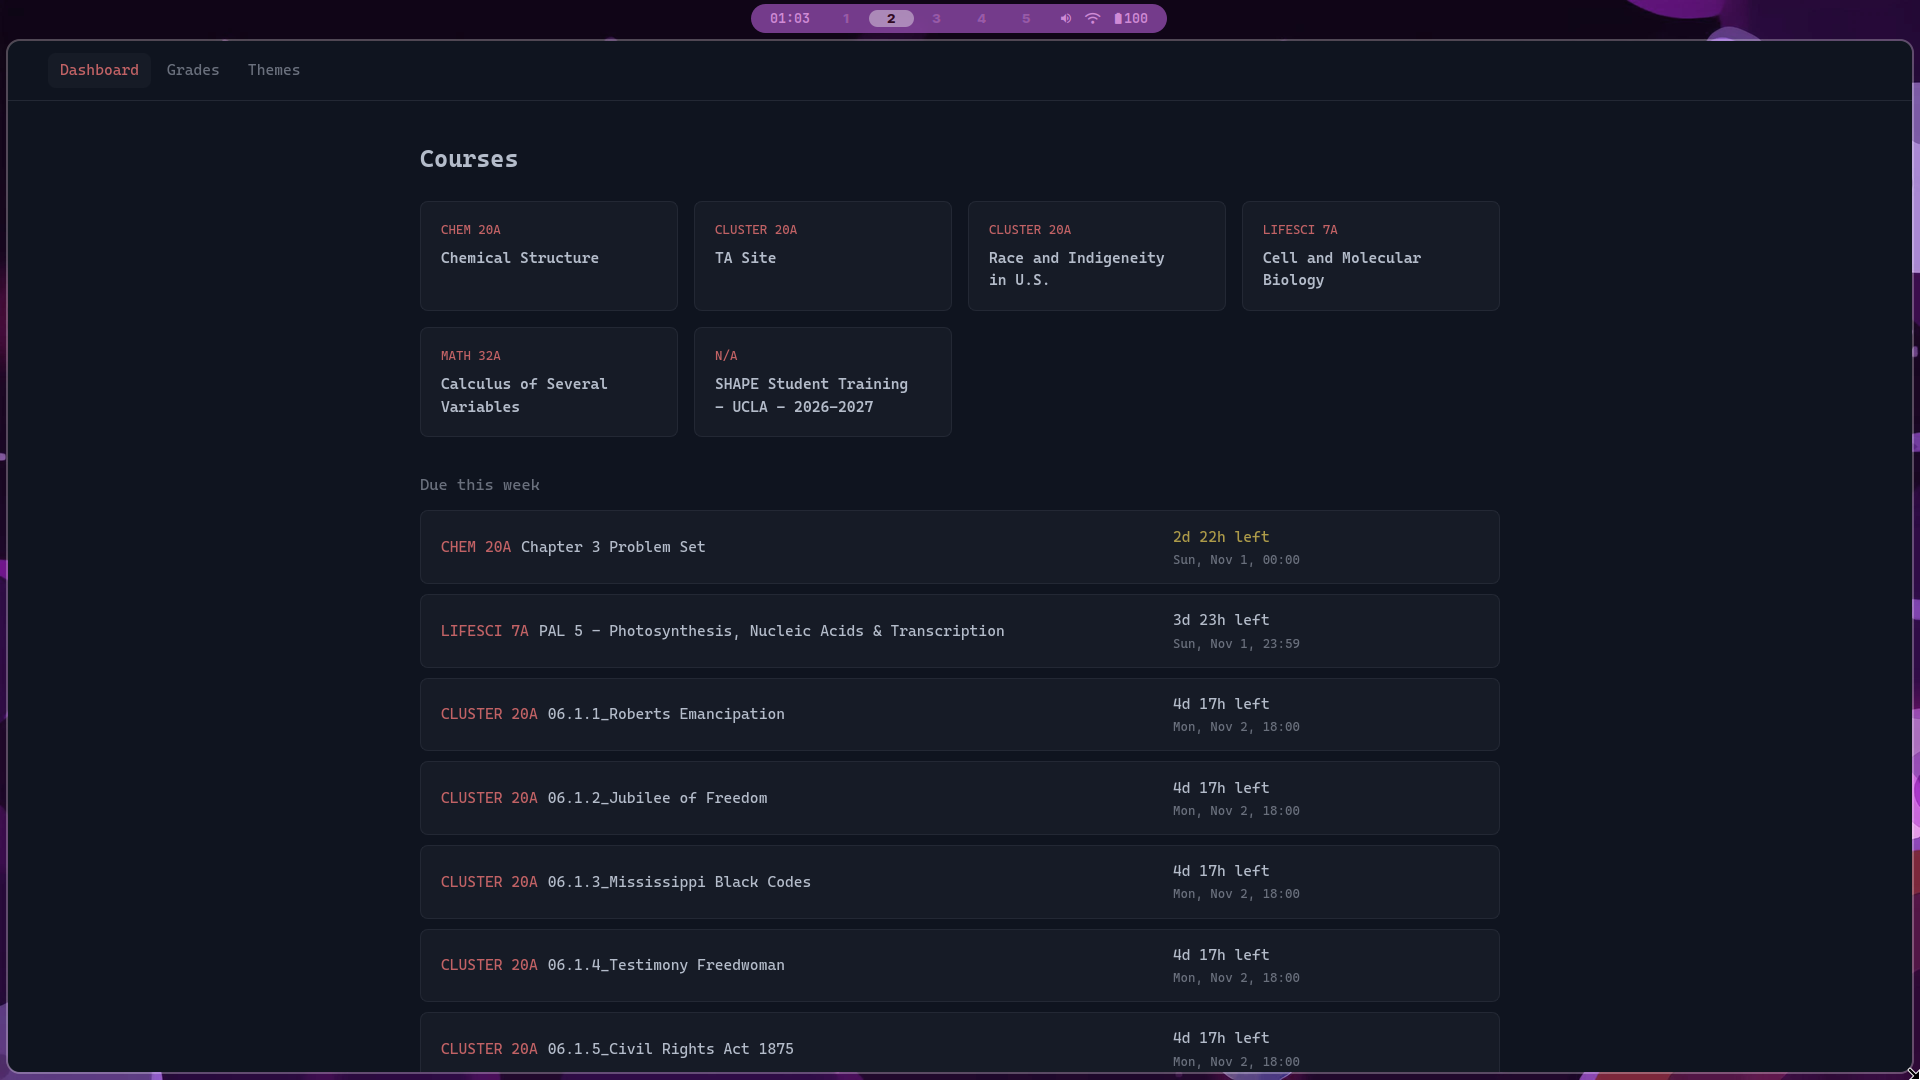
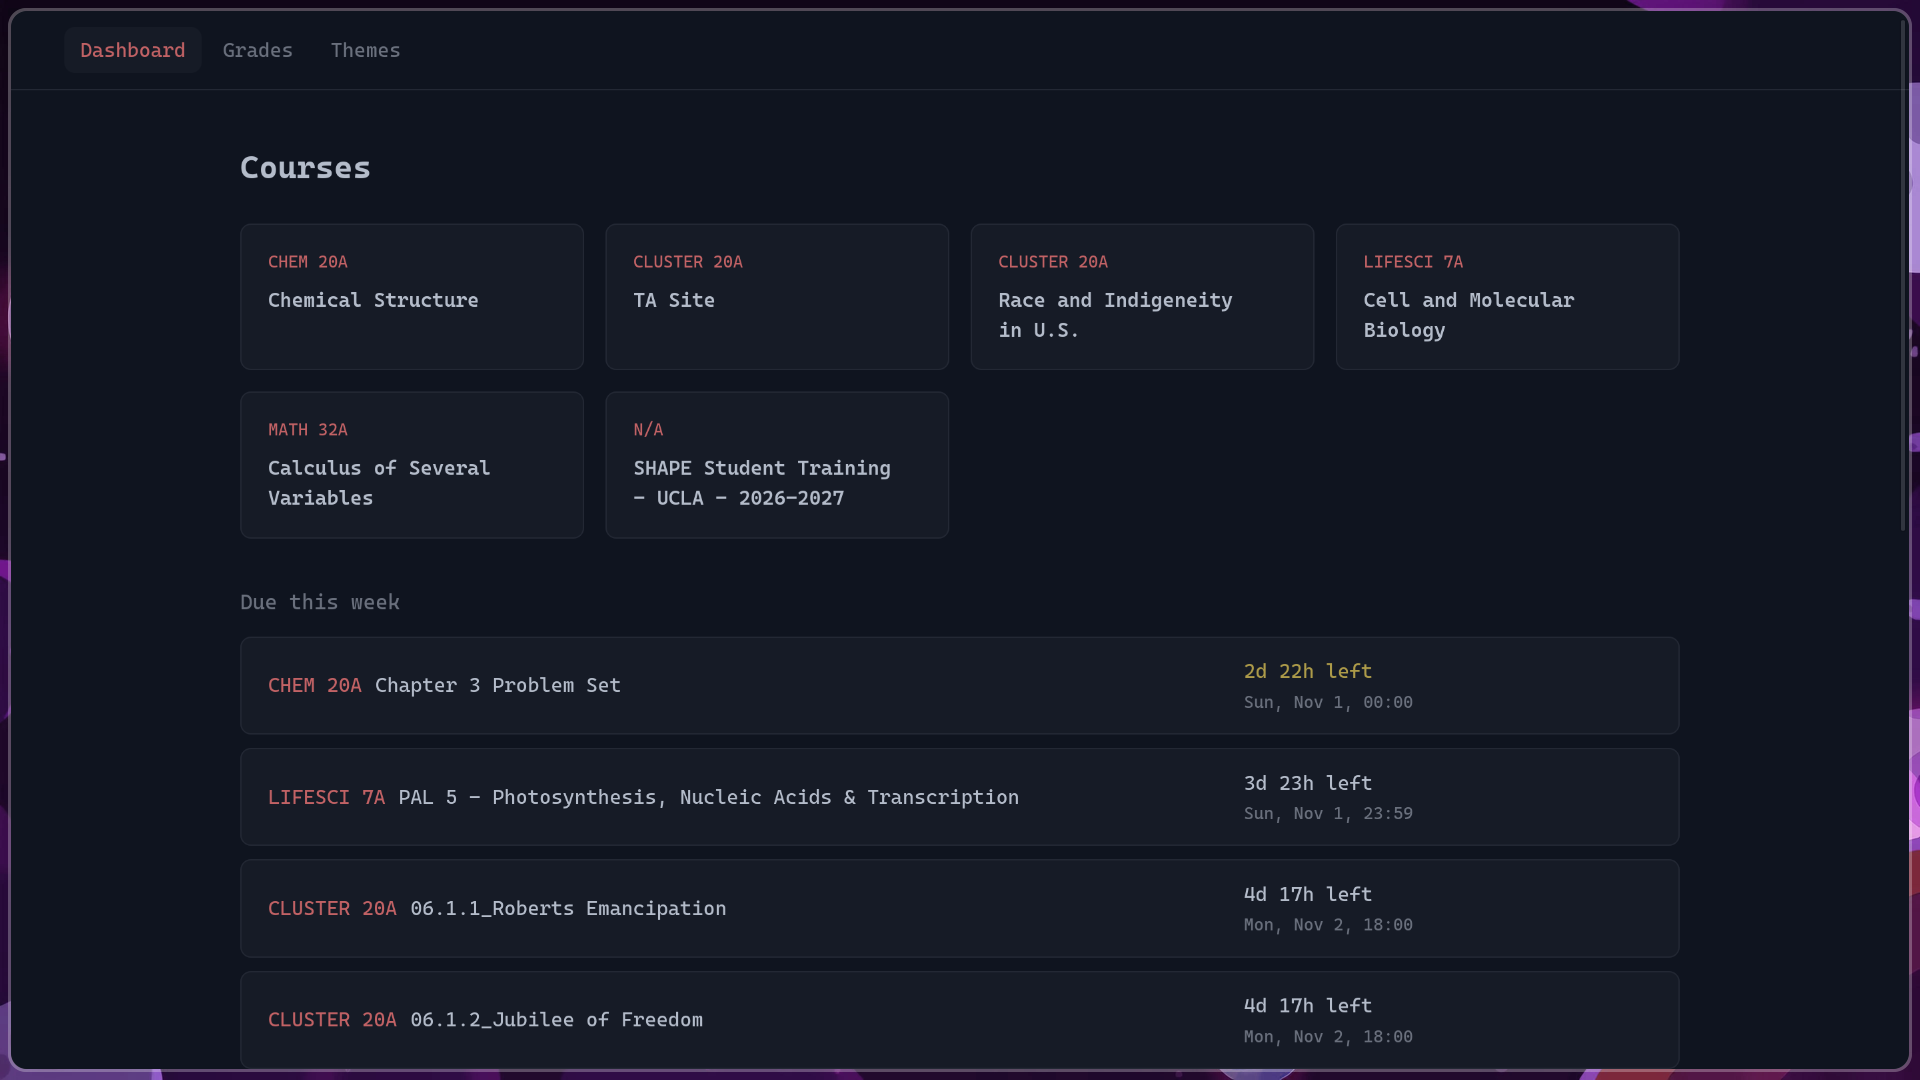
img

diff --git a/README.md b/README.md
@@ -1,5 +1,5 @@
 # Canvas
-Desktop client for canvas w/ Tauri + Svelte
+Desktop client for canvas w/ Tauri + Svelte  
 Only works for ucla canvas
 
 ## Setup (arch)
@@ -13,8 +13,8 @@ dev:
 build + install to ~/.local/bin/canvas  
 `npm run install-app`  
 
-## What it does
-Login: a window opens SSO. Session cookie is saved in webview cookie store -> rust for api calls
-Every API response is cached to disk (preloading!!!)
-
-![dashboard](img/dashboard.png)
+## How it works
+- Login w/ SSO  
+- Session cookie is saved in webview cookie store  
+- Rust for api calls  
+- Every API response is cached to disk (preloading!!!)
